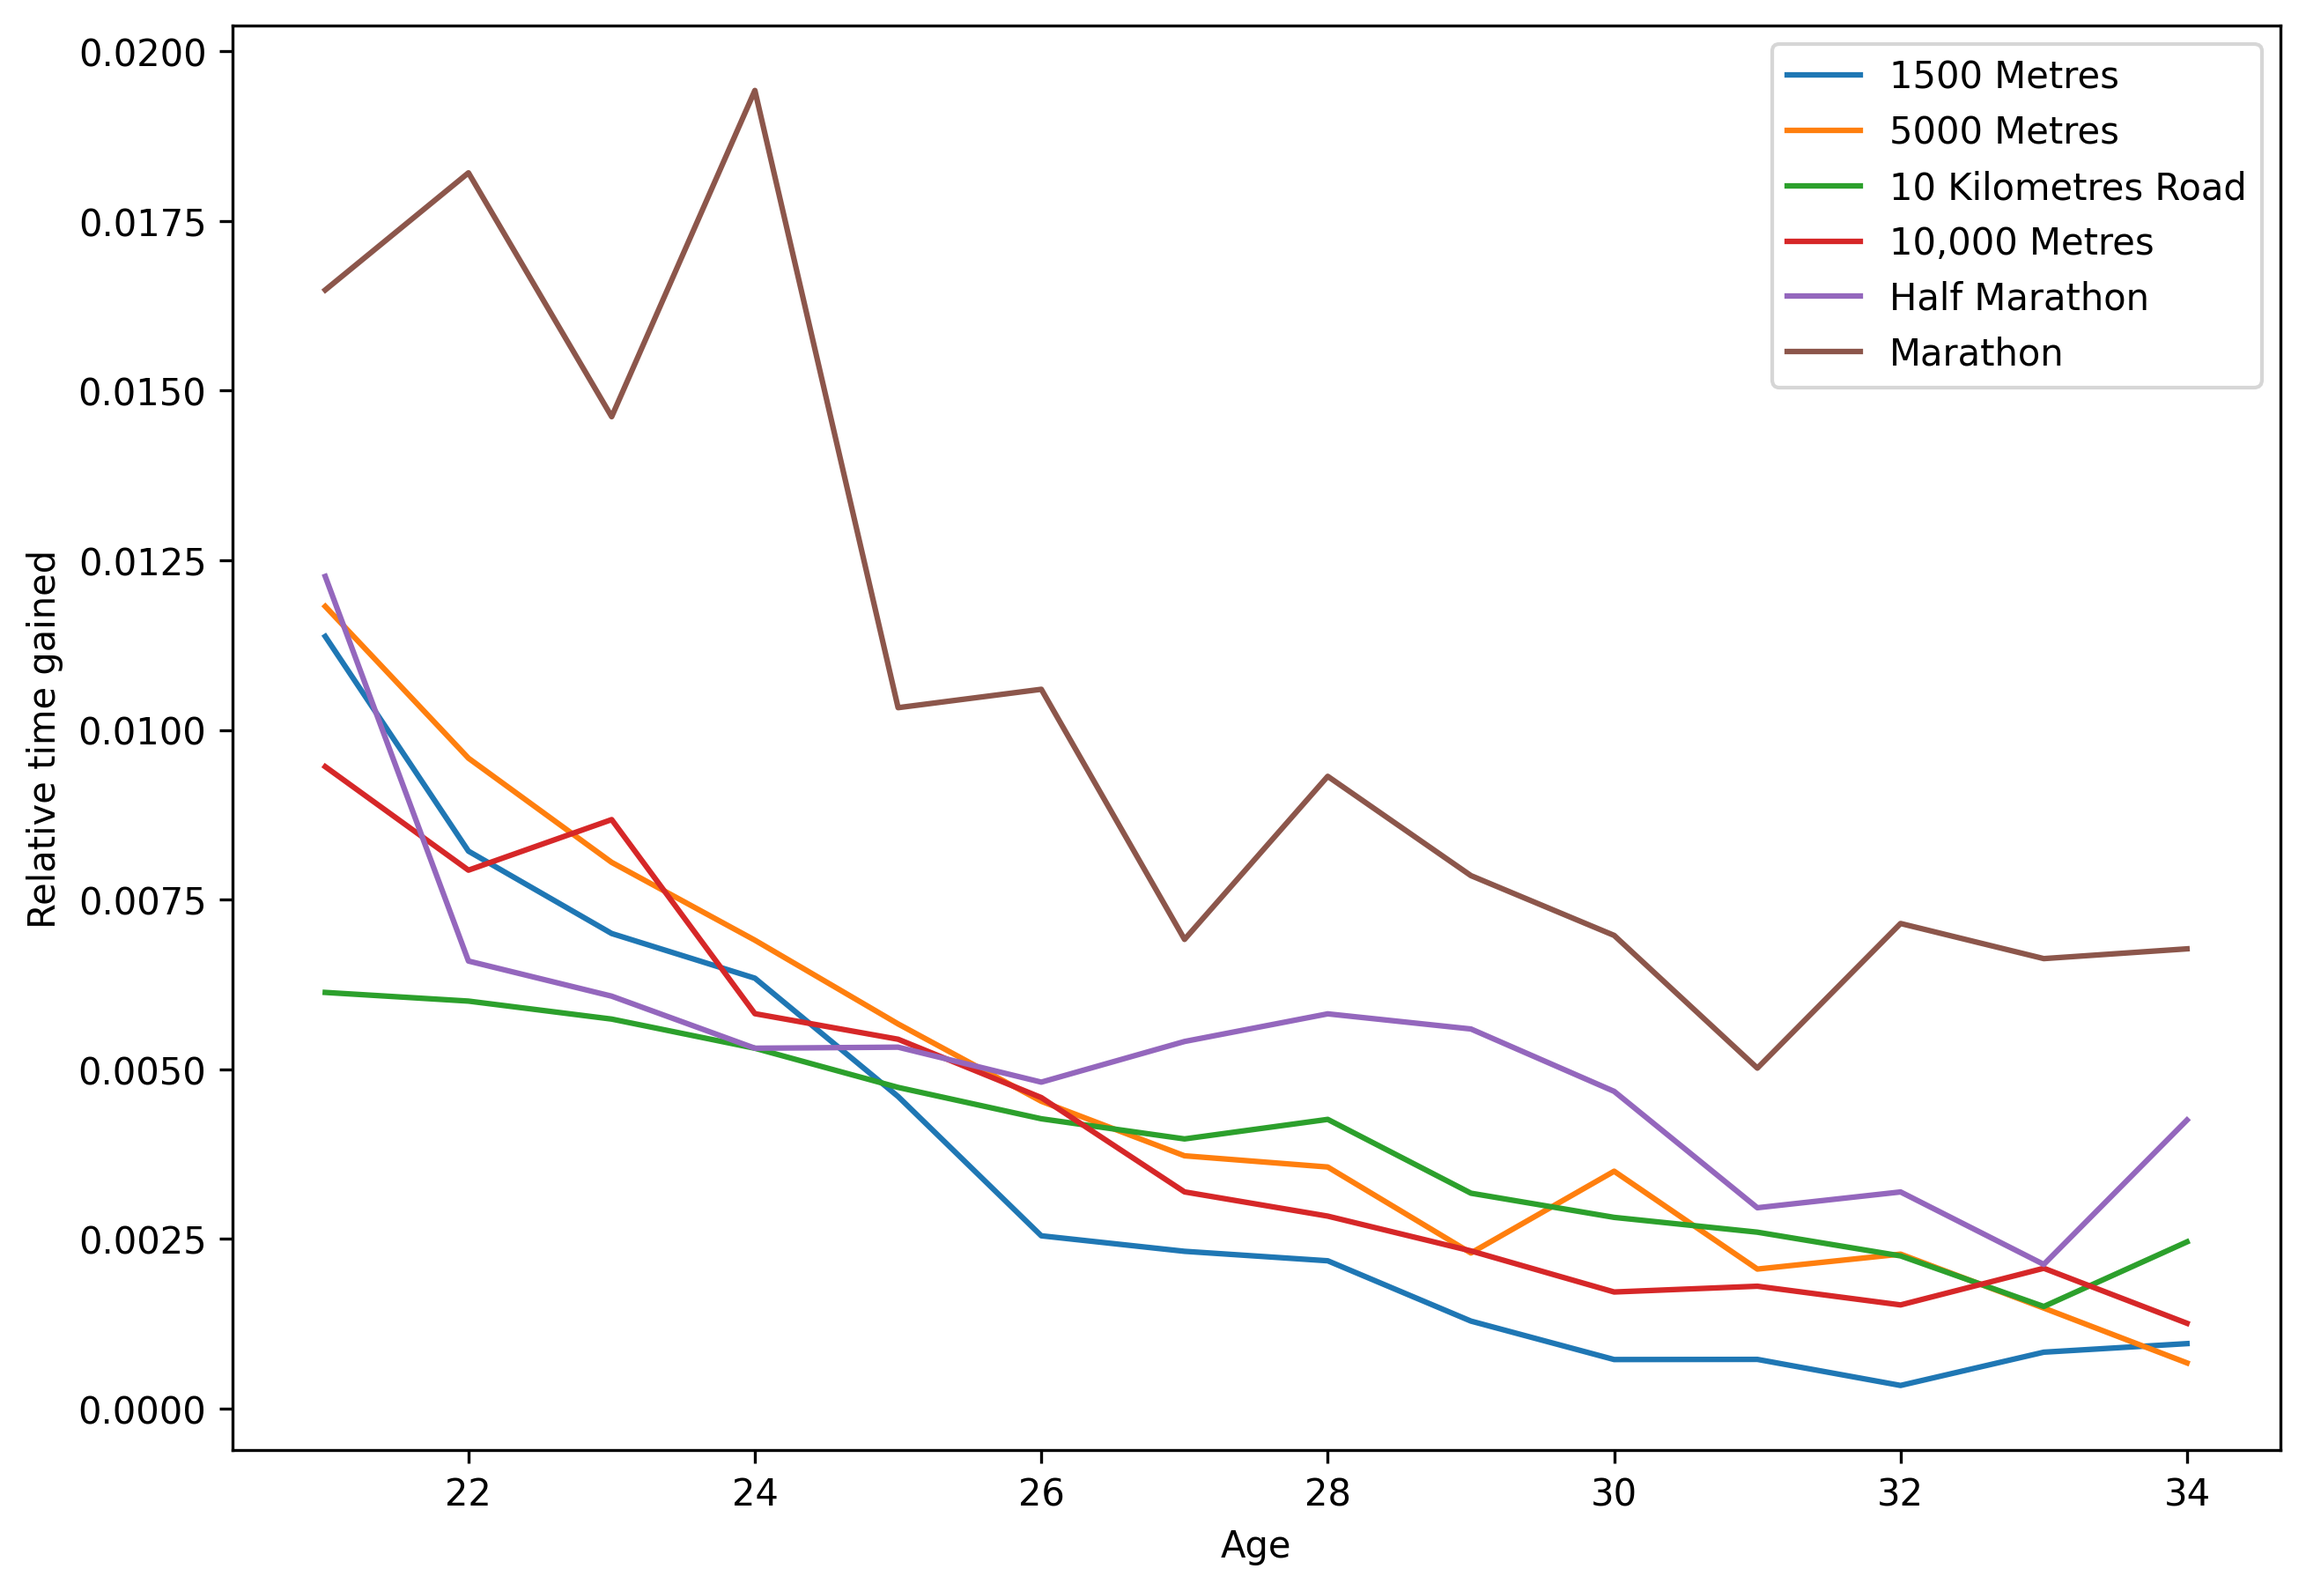
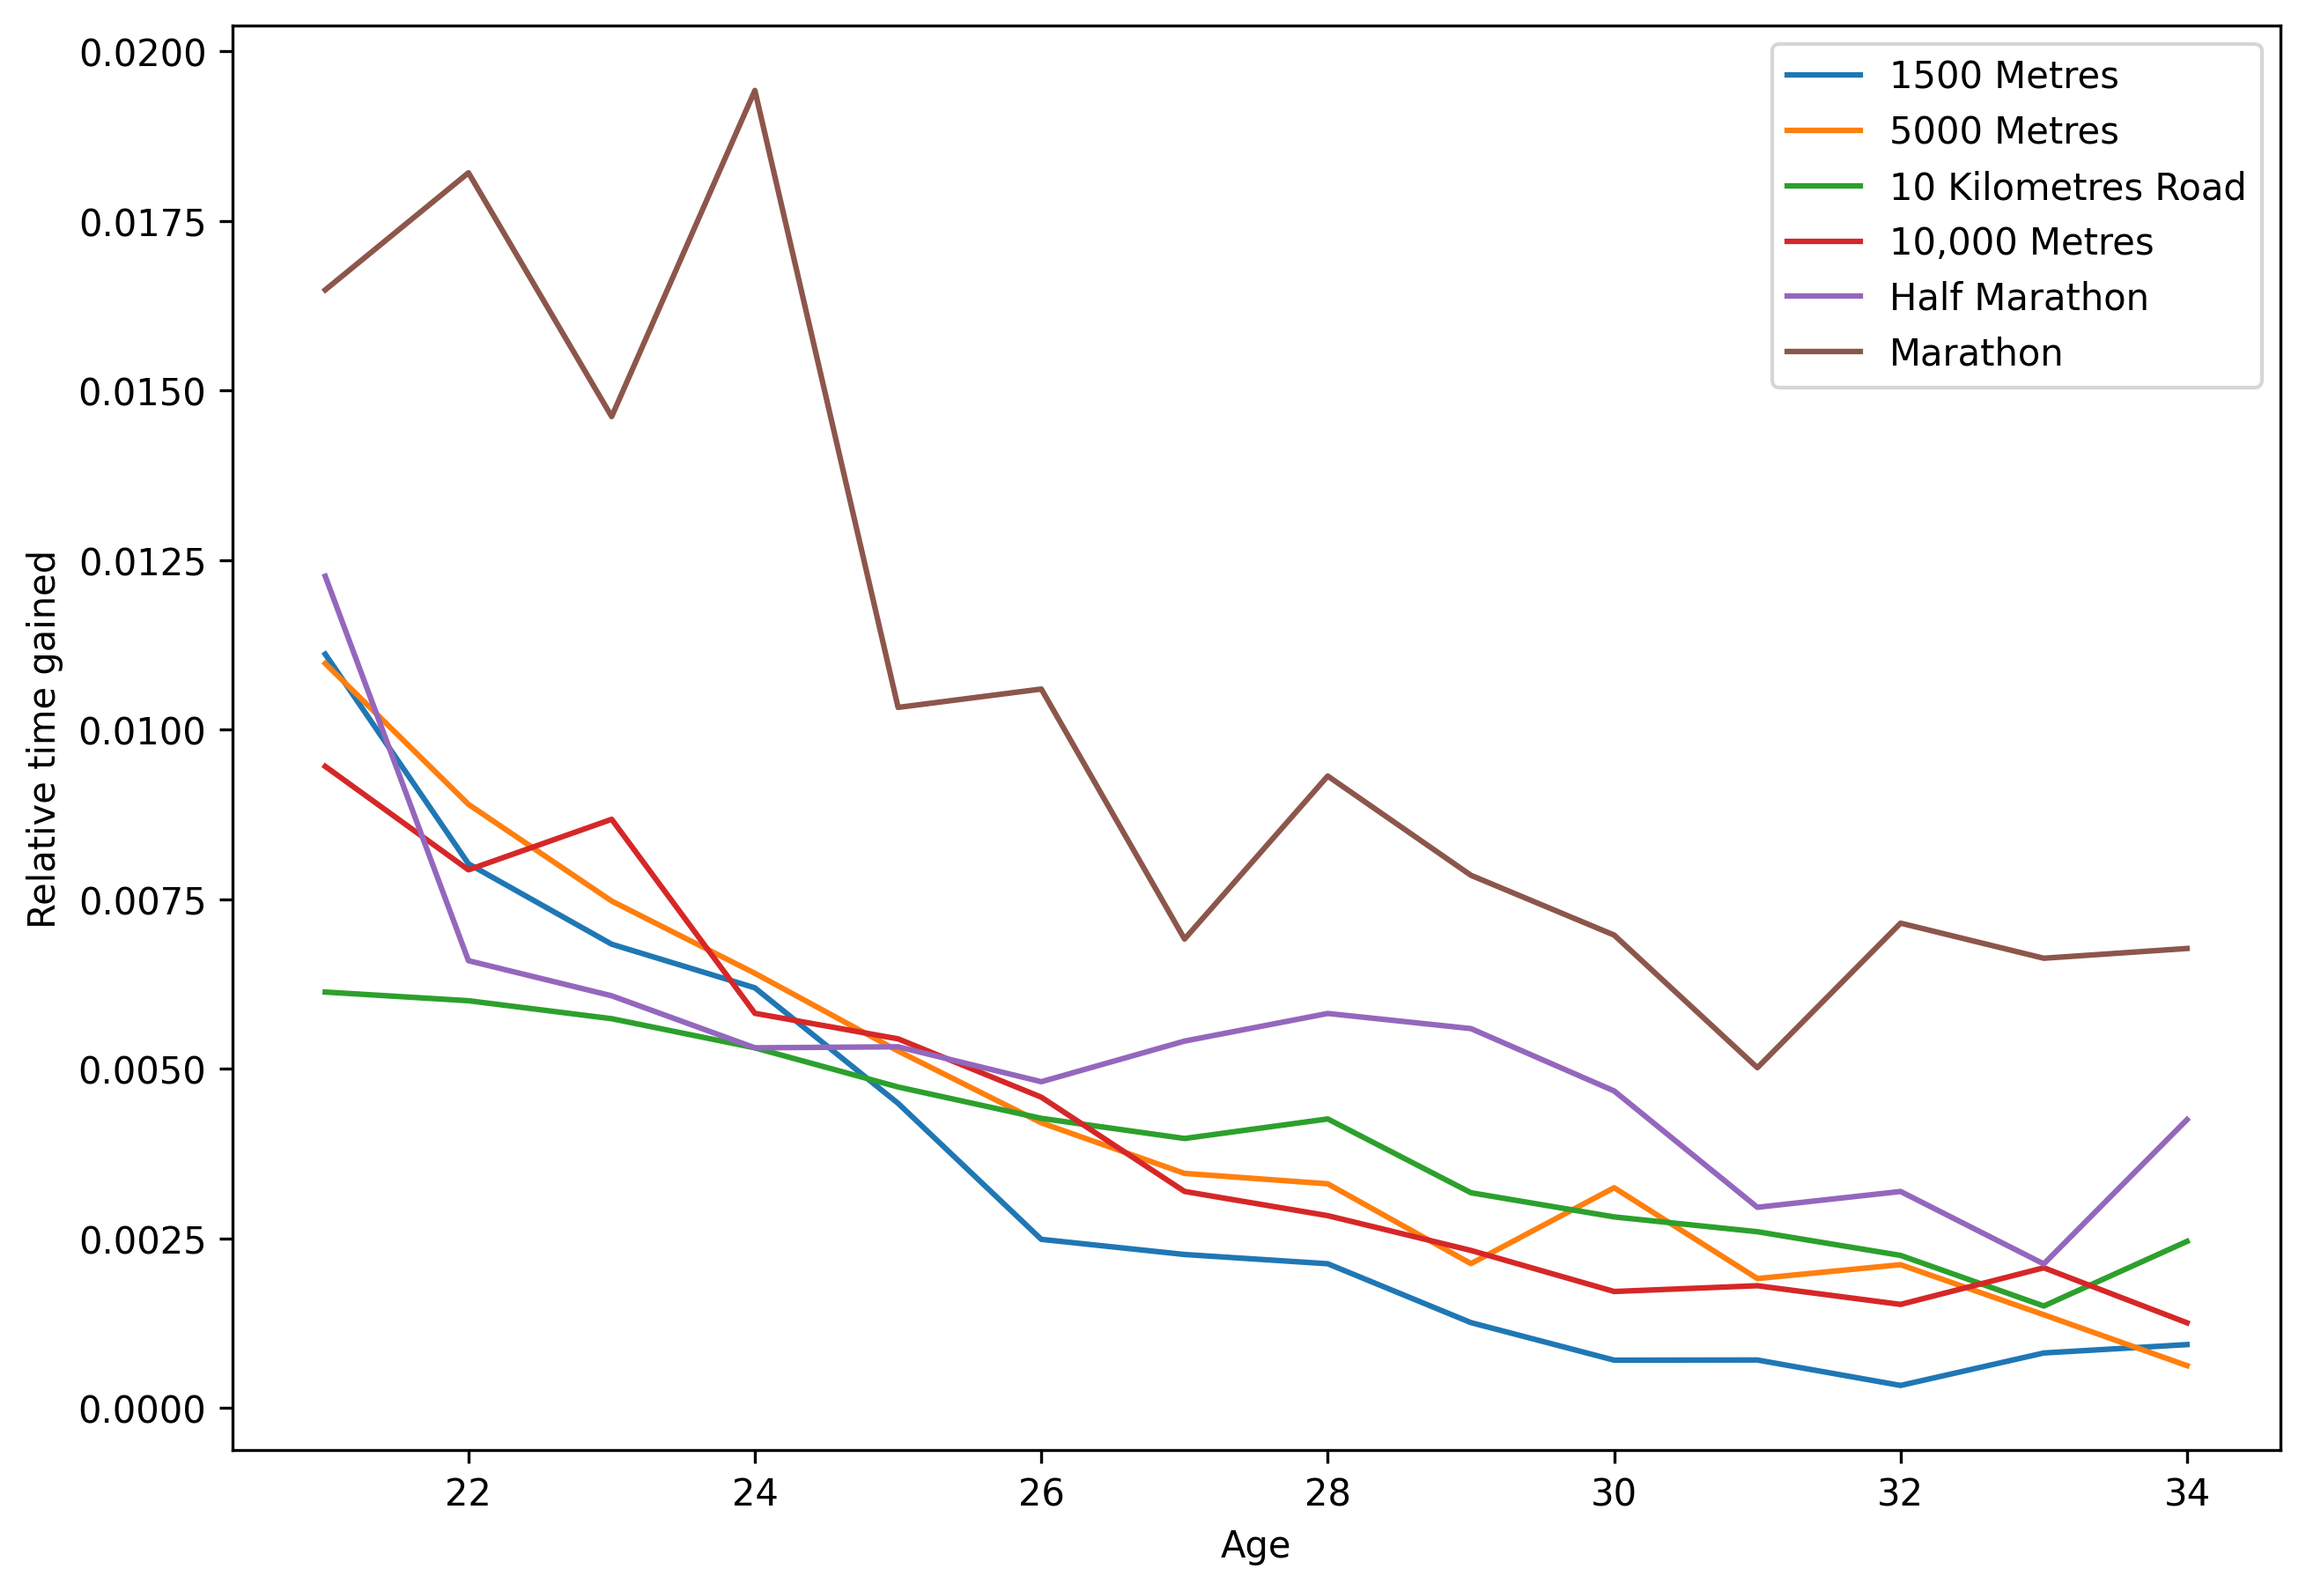
Modifications of parameters for the plots

diff --git a/summary.tex b/summary.tex
@@ -1,0 +1,126 @@
+%%%%%%%%%%%%%%%%%%%%%%%%%%%%%%%%%%%%%%%%%%%%%%%%%%%%%%%%%%%%%%%%%%%%%
+%% PREAMBLE
+
+\documentclass[a4paper, 12pt]{article}
+
+% General document formatting
+\usepackage[margin=1.25in]{geometry}
+\usepackage[parfill]{parskip}
+\usepackage[utf8]{inputenc}
+
+% Figures
+\usepackage{graphicx}
+\usepackage[section]{placeins} 
+% References 
+\usepackage[authoryear,round]{natbib}
+    
+% Related to math
+\usepackage{amsmath,amssymb,amsfonts,amsthm}
+
+% Hyperlinks
+\usepackage{hyperref}
+
+% Author details
+\title{Analysis of elite runners performances in World Athletics}
+\author{02451305}
+\date{Compiled: \today}
+%%%%%%%%%%%%%%%%%%%%%%%%%%%%%%%%%%%%%%%%%%%%%%%%%%%%%%%%%%%%%%%%%%%%%%
+
+\begin{document}
+
+\maketitle
+
+\textbf{Github Repo:} \href{https://github.com/zakvarty/eds-notes-quarto/releases/tag/v1.2.0-alpha}{REPLACE-WITH-LINK-TO-YOUR-TAGGED-RELEASE}
+
+\section{Project Description (approx. 250 words)}
+
+
+This project's goal is to give an overview of elite runners performances, by gathering all the information necessary using web 
+scraping on the World Athletics website. With this data the aim s identify different profiles of runners and how they can 
+improve (or not) and evolve over time.
+
+
+%=============================================
+\pagebreak
+%=============================================
+
+\section{Assessment Criteria}
+
+
+\textbf{Technical Competence:} Proficiency in data collection, processing, analysis, and coding.
+
+\begin{itemize}
+    \item Web Scraping from numerous web pages
+    \item Preprocessing this scraped data
+    \item Analysis of sparse data, dealing with NaNs with statistical models
+\end{itemize}
+
+\textbf{User Interface:} Design, functionality, and usability of the final data product.
+
+\begin{itemize}
+    \item I used the report form so the functionality and usability of the product lies in the fact that everything is reproducible using the repository
+\end{itemize}
+
+\textbf{Analysis and Interpretation:} Depth of analysis, appropriate use of statistical methods, and meaningful interpretation.
+
+\begin{itemize}
+    \item Exploratory analysis of the data
+    \item Clustering, PCA for the analysis of the perfomances
+\end{itemize}
+
+\textbf{Presentation and Communication:} Clarity, organisation and effectiveness of written and visual communication.
+
+\begin{itemize}
+    \item Structured report 
+\end{itemize}
+
+\textbf{Reproducibility:} Clarity and completeness of documentation for result reproducibility.
+
+\begin{itemize}
+    \item Relevant instructions in the README file, ability to run the entire project from (needs a few hours because of the web scraping)
+\end{itemize}
+
+\textbf{Version Control:} Effective use of version control systems.
+
+\begin{itemize}
+    \item Created branches for each big job: Web scraping, preprocessing, and data generation (NB:the web_scraping branch was deleted after use)
+\end{itemize}
+
+%=============================================
+\pagebreak
+%=============================================
+
+\section{Project Reflection}
+
+\textit{Reflect on the experience of creating your data product. In 6 bullet points and at most 1 page total, summarise the following.} 
+
+\begin{itemize}
+    \item \textit{3 things you have learned as part of this process,}
+    \item \textit{2 aspects of the project that you found challenging or would approach differently with hindsight,} 
+    \item \textit{1 aspect of the project that you would like to learn more about in the future.}
+\end{itemize}
+
+\textit{You may delete this italicised text when filling in the template.} 
+
+\textbf{Learnings:}
+
+\begin{itemize}
+    \item Item 1
+    \item Item 2
+    \item Item 3
+\end{itemize}
+
+\textbf{Challenges:}
+
+\begin{itemize}
+    \item Item 1
+    \item Item 2
+\end{itemize}
+
+\textbf{Further Development:}
+
+\begin{itemize}
+    \item Item 1
+\end{itemize}
+
+\end{document}

diff --git a/Analysis/age_distribution.py b/Analysis/age_distribution.py
@@ -43,14 +43,14 @@ def plot_distribution(Gender):
 def calculate_time_differences(df, columns, gender):
     """Calculate the differences for successive years for a given column"""
     diffs = {col: [] for col in columns}
-    races_duration = {'Men' :{'1500 Metres' : 210, 
-                    '5000 Metres' : 780,
+    races_duration = {'Men' :{'1500 Metres' : 215, 
+                    '5000 Metres' : 840,
                     '10 Kilometres Road' : 29*60,
                     '10,000 Metres' : 29*60,
                     'Half Marathon' : 61*60,
                     'Marathon' : 126*60},
-                    'Women' :{'1500 Metres' : 240, 
-                    '5000 Metres' : 860,
+                    'Women' :{'1500 Metres' : 245, 
+                    '5000 Metres' : 900,
                     '10 Kilometres Road' : 32*60,
                     '10,000 Metres' : 32*60,
                     'Half Marathon' : 67*60,
